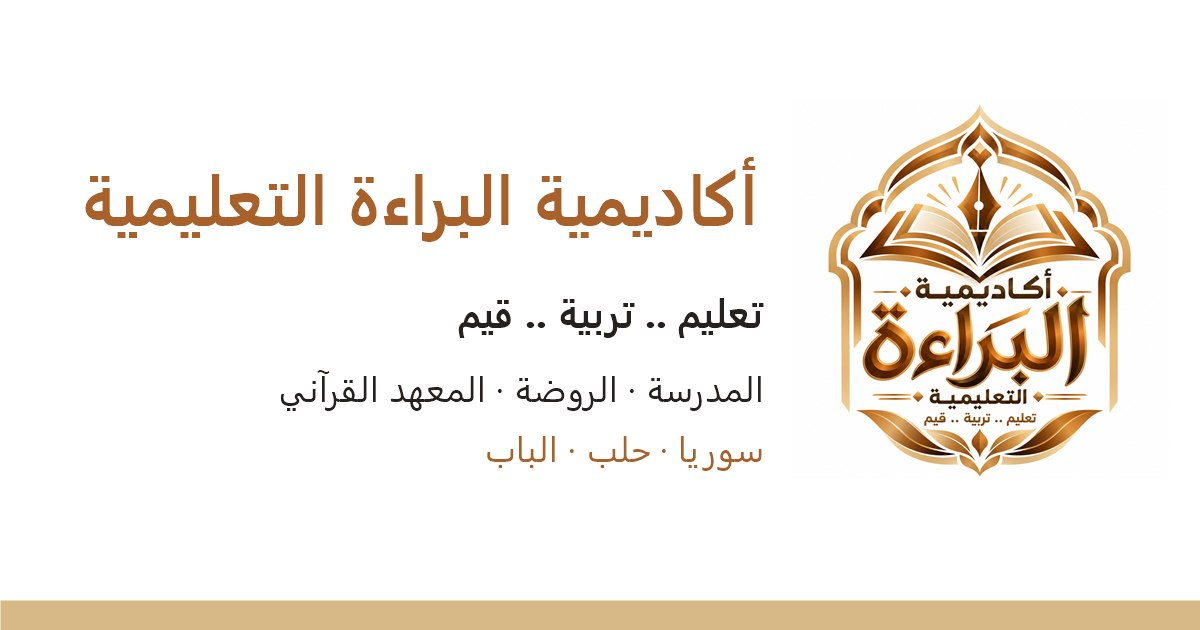
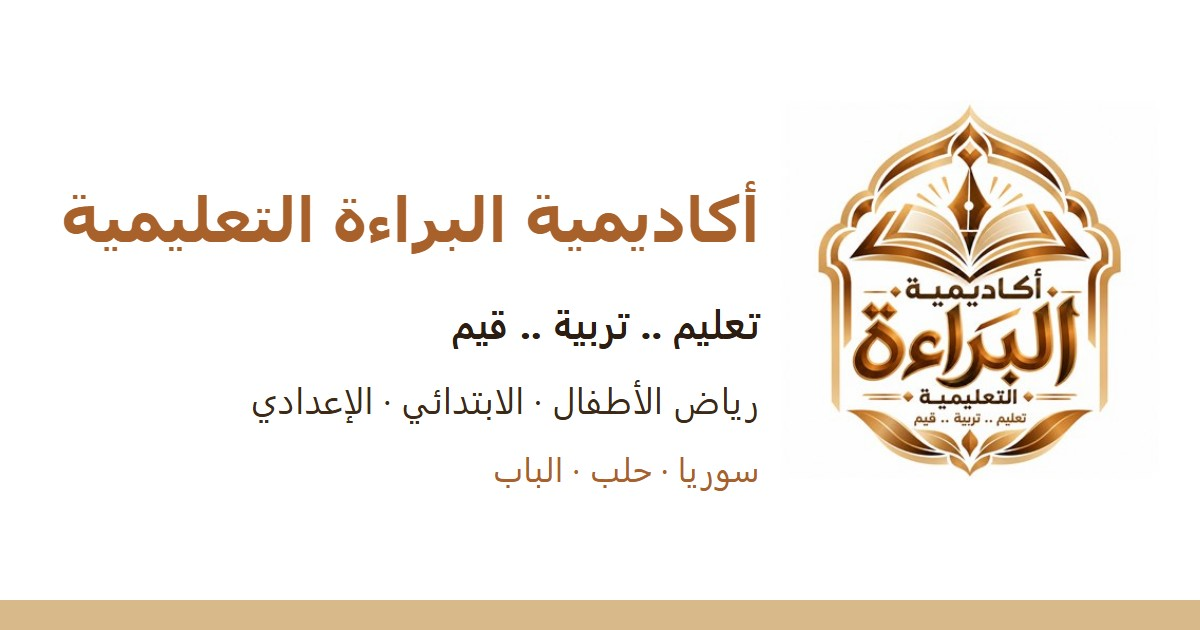
The site speaks for the Academy only: no sections block; kindergarten, primary and preparatory stages; one gallery; new share picture

diff --git a/index.html b/index.html
@@ -4,9 +4,9 @@
   <meta charset="utf-8">
   <meta name="viewport" content="width=device-width, initial-scale=1">
   <title>أكاديمية البراءة التعليمية | سوريا، حلب، الباب</title>
-  <meta name="description" content="أكاديمية البراءة التعليمية في سوريا، حلب، مدينة الباب: مدرسة البراءة الخاصة (ابتدائي) ودورات التقوية والتأسيس والشهادة الإعدادية، روضة البراءة الخاصة، ومعهد البراءة القرآني للعلوم الشرعية.">
+  <meta name="description" content="أكاديمية البراءة التعليمية في سوريا، حلب، مدينة الباب: رياض الأطفال، والمرحلة الابتدائية، والمرحلة الإعدادية.">
   <meta property="og:title" content="أكاديمية البراءة التعليمية">
-  <meta property="og:description" content="أكاديمية البراءة التعليمية في سوريا، حلب، مدينة الباب: مدرسة البراءة الخاصة، روضة البراءة الخاصة، ومعهد البراءة القرآني للعلوم الشرعية.">
+  <meta property="og:description" content="أكاديمية البراءة التعليمية في سوريا، حلب، مدينة الباب: تعليم .. تربية .. قيم.">
   <link rel="canonical" href="https://albaraah.org/">
   <meta property="og:type" content="website">
   <meta property="og:url" content="https://albaraah.org/">
@@ -22,7 +22,7 @@
   <link rel="preconnect" href="https://fonts.googleapis.com">
   <link rel="preconnect" href="https://fonts.gstatic.com" crossorigin>
   <link href="https://fonts.googleapis.com/css2?family=Amiri:wght@700&family=Cairo:wght@400;600;700;800;900&display=swap" rel="stylesheet">
-  <link rel="stylesheet" href="styles.css?v=2026-10-30-gallery">
+  <link rel="stylesheet" href="styles.css?v=2026-11-25-academy">
 </head>
 <body>
   <header class="site-header">
@@ -35,7 +35,7 @@
       <label for="menu-toggle" class="menu-button" aria-hidden="true"><span></span><span></span><span></span></label>
       <nav class="site-nav" aria-label="القائمة الرئيسية">
         <a href="#about">عن الأكاديمية</a>
-        <a href="#programs">أقسامنا</a>
+        <a href="#gallery">من يومياتنا</a>
         <a href="#register">التسجيل</a>
         <a href="#news">الأخبار</a>
         <a href="#contact">تواصل معنا</a>
@@ -48,9 +48,7 @@
     <section class="hero">
       <div class="wrap hero-inner">
         <div class="hero-logos">
-          <img src="assets/kindergarten.jpg" alt="روضة البراءة الخاصة" width="92" height="92">
-          <img src="assets/school.jpg" alt="مدرسة البراءة الخاصة" width="150" height="150" class="hero-logo-main">
-          <img src="assets/institute.jpg" alt="معهد البراءة القرآني" width="92" height="92">
+          <img src="assets/academy.jpg" alt="شعار أكاديمية البراءة التعليمية" width="150" height="150" class="hero-logo-main">
         </div>
         <h1>أكاديمية البراءة التعليمية</h1>
         <p class="hero-motto">تعليم .. تربية .. قيم</p>
@@ -73,7 +71,7 @@
         <div>
           <p class="eyebrow">من نحن</p>
           <h2>أكاديمية البراءة التعليمية</h2>
-          <p>أكاديمية تعليمية في مدينة الباب، تجمع تحت سقف واحد مدرسة البراءة الخاصة ودوراتها في التقوية والتأسيس والشهادة الإعدادية، وروضة البراءة الخاصة، ومعهد البراءة القرآني للعلوم الشرعية. نعمل على أن يجد كل طالب تعليماً متميّزاً ومتابعةً حقيقية، وبيئةً تربوية تبني العلم والخُلُق معاً.</p>
+          <p>أكاديمية تعليمية في مدينة الباب، تستقبل طلابها في <strong>رياض الأطفال</strong> و<strong>المرحلة الابتدائية</strong> و<strong>المرحلة الإعدادية</strong>. نعمل على أن يجد كل طالب تعليماً متميّزاً ومتابعةً حقيقية، في صفوف بأعداد محدودة، وتواصلٍ مستمر مع الأهل، وبيئةٍ تربوية تبني العلم والخُلُق معاً.</p>
         </div>
         <ul class="values">
           <li><strong>تعليم</strong><span>مناهج واضحة ومعلّمون يتابعون كل طالب.</span></li>
@@ -83,103 +81,25 @@
       </div>
     </section>
 
-    <section id="programs" class="section section-tint">
+    <section id="gallery" class="section section-tint">
       <div class="wrap">
-        <p class="eyebrow">أقسامنا</p>
-        <h2>ثلاثة أقسام تحت سقف واحد</h2>
-
-        <article class="unit unit-brown" id="school">
-          <header class="unit-head">
-            <img src="assets/school.jpg" alt="شعار مدرسة البراءة الخاصة" width="96" height="96">
-            <div>
-              <h3>مدرسة البراءة الخاصة</h3>
-              <p class="tag">المرحلة الابتدائية · من الصف الأول إلى الصف السادس</p>
-            </div>
-          </header>
-          <p>مدرسة ابتدائية خاصة في مدينة الباب، تقدّم تعليماً متميّزاً في صفوف بأعداد محدودة، مع متابعة يومية لكل طالب وتواصل مستمر مع الأهل، في بيئة تربوية تجمع بين العلم والأخلاق.</p>
-          <div class="cards">
-            <div class="card card-brown">
-              <span class="card-icon"><svg viewBox="0 0 24 24" aria-hidden="true"><path d="M4 4h16v2H4V4Zm0 4h10v2H4V8Zm0 4h16v2H4v-2Zm0 4h10v2H4v-2Z"/></svg></span>
-              <h4>التعليم الابتدائي</h4>
-              <ul><li>من الصف الأول إلى الصف السادس</li><li>صفوف بأعداد محدودة</li><li>متابعة لكل طالب وتقارير للأهل</li></ul>
-            </div>
-            <div class="card card-blue">
-              <span class="card-icon"><svg viewBox="0 0 24 24" aria-hidden="true"><path d="M3 5h7a2 2 0 0 1 2 2v12a2 2 0 0 0-2-2H3V5Zm18 0h-7a2 2 0 0 0-2 2v12a2 2 0 0 1 2-2h7V5ZM5 8h4v1.5H5V8Zm0 3h4v1.5H5V11Zm10-3h4v1.5h-4V8Zm0 3h4v1.5h-4V11Z"/></svg></span>
-              <h4>دورات التقوية والتأسيس</h4>
-              <ul><li>متابعة يومية لجميع المواد</li><li>شرح مبسّط وحلّ الواجبات</li><li>تأسيس في القراءة والكتابة والحساب</li><li>اهتمام فردي بكل طالب</li></ul>
-            </div>
-            <div class="card card-brown">
-              <span class="card-icon"><svg viewBox="0 0 24 24" aria-hidden="true"><path d="M12 3 1 8.5 12 14l9-4.5V16h2V8.5L12 3Zm-6 9.6V16c0 1.7 2.7 3 6 3s6-1.3 6-3v-3.4L12 15.6 6 12.6Z"/></svg></span>
-              <h4>دورات الشهادة الإعدادية</h4>
-              <ul><li>للصف التاسع</li><li>تحضير شامل لامتحانات الشهادة</li><li>مراجعات مكثّفة ونماذج امتحانية</li></ul>
-              <img class="card-photo" src="assets/grade9-course.jpg" alt="حصة من دورات الشهادة الإعدادية في مدرسة البراءة الخاصة" width="960" height="721" loading="lazy">
-            </div>
+        <p class="eyebrow">من يومياتنا</p>
+        <h2>من يوميات الأكاديمية</h2>
+        <div class="gallery" data-gallery>
+          <div class="gallery-stage">
+            <img class="gallery-main" src="assets/school-1.jpg" alt="طالبات يحتفلن بإنجاز ورقة عمل في الرياضيات" width="674" height="900" loading="lazy">
+            <button type="button" class="gallery-arrow gallery-prev" aria-label="الصورة السابقة">›</button>
+            <button type="button" class="gallery-arrow gallery-next" aria-label="الصورة التالية">‹</button>
           </div>
-          <h4 class="gallery-title">من يوميات المدرسة</h4>
-          <div class="gallery" data-gallery>
-            <div class="gallery-stage">
-              <img class="gallery-main" src="assets/school-1.jpg" alt="طالبات يحتفلن بإنجاز ورقة عمل في الرياضيات" width="674" height="900" loading="lazy">
-              <button type="button" class="gallery-arrow gallery-prev" aria-label="الصورة السابقة">›</button>
-              <button type="button" class="gallery-arrow gallery-next" aria-label="الصورة التالية">‹</button>
-            </div>
-            <div class="gallery-thumbs">
-              <button type="button" class="is-active"><img src="assets/school-1.jpg" alt="طالبات يحتفلن بإنجاز ورقة عمل في الرياضيات" loading="lazy"></button>
-              <button type="button"><img src="assets/school-2.jpg" alt="طلاب الصف في نشاط مشترك داخل القاعة" loading="lazy"></button>
-              <button type="button"><img src="assets/school-3.jpg" alt="طالبات في ساحة المدرسة" loading="lazy"></button>
-              <button type="button"><img src="assets/school-4.jpg" alt="طلاب يعرضون دفاترهم أمام لوحة المدرسة" loading="lazy"></button>
-              <button type="button"><img src="assets/school-5.jpg" alt="طالبات مكرّمات بملصقات التشجيع في حصة التربية الدينية" loading="lazy"></button>
-              <button type="button"><img src="assets/school-6.jpg" alt="طلاب يحصلون على أوسمة التميّز على دفاترهم" loading="lazy"></button>
-            </div>
+          <div class="gallery-thumbs">
+            <button type="button" class="is-active"><img src="assets/school-1.jpg" alt="طالبات يحتفلن بإنجاز ورقة عمل في الرياضيات" loading="lazy"></button>
+            <button type="button"><img src="assets/school-2.jpg" alt="طلاب الصف في نشاط مشترك داخل القاعة" loading="lazy"></button>
+            <button type="button"><img src="assets/school-3.jpg" alt="طالبات في ساحة المدرسة" loading="lazy"></button>
+            <button type="button"><img src="assets/school-4.jpg" alt="طلاب يعرضون دفاترهم أمام لوحة المدرسة" loading="lazy"></button>
+            <button type="button"><img src="assets/school-5.jpg" alt="طالبات مكرّمات بملصقات التشجيع في حصة التربية الدينية" loading="lazy"></button>
+            <button type="button"><img src="assets/school-6.jpg" alt="طلاب يحصلون على أوسمة التميّز على دفاترهم" loading="lazy"></button>
           </div>
-        </article>
-
-        <article class="unit unit-gold" id="kindergarten">
-          <header class="unit-head">
-            <img src="assets/kindergarten.jpg" alt="شعار روضة البراءة الخاصة" width="96" height="96">
-            <div>
-              <h3>روضة البراءة الخاصة</h3>
-              <p class="tag">للأطفال من عمر 3 إلى 6 سنوات</p>
-            </div>
-          </header>
-          <p>روضة تستقبل الأطفال من عمر ثلاث سنوات إلى ست سنوات، وتجهزهم للمدرسة بالتعلّم واللعب: الحروف والأرقام، والأناشيد، والسور القصيرة، والأنشطة الفنية، في بيئة آمنة ودافئة مع مربّيات يتابعن كل طفل.</p>
-          <ul class="points">
-            <li>تحضير للصف الأول: الحروف والأرقام</li>
-            <li>حفظ السور القصيرة والأدعية</li>
-            <li>أنشطة فنية وألعاب تعليمية</li>
-            <li>بيئة آمنة ومتابعة لكل طفل</li>
-          </ul>
-          <h4 class="gallery-title">من يوميات الروضة</h4>
-          <div class="gallery" data-gallery>
-            <div class="gallery-stage">
-              <img class="gallery-main" src="assets/kg-1.jpg" alt="أطفال الروضة يتدرّبون على كتابة حرف الذال على اللوح" width="785" height="900" loading="lazy">
-              <button type="button" class="gallery-arrow gallery-prev" aria-label="الصورة السابقة">›</button>
-              <button type="button" class="gallery-arrow gallery-next" aria-label="الصورة التالية">‹</button>
-            </div>
-            <div class="gallery-thumbs">
-              <button type="button" class="is-active"><img src="assets/kg-1.jpg" alt="أطفال الروضة يتدرّبون على كتابة حرف الذال على اللوح" loading="lazy"></button>
-              <button type="button"><img src="assets/kg-2.jpg" alt="نشاط فني: تلوين حبّات الذرة مع حرف الذال" loading="lazy"></button>
-              <button type="button"><img src="assets/kg-3.jpg" alt="أطفال الروضة يكتبون أشكال حرف الذال في دفاترهم" loading="lazy"></button>
-              <button type="button"><img src="assets/kg-4.jpg" alt="أطفال الروضة أمام لوح درس العدد تسعة" loading="lazy"></button>
-            </div>
-          </div>
-        </article>
-
-        <article class="unit unit-green" id="institute">
-          <header class="unit-head">
-            <img src="assets/institute.jpg" alt="شعار معهد البراءة القرآني" width="96" height="96">
-            <div>
-              <h3>معهد البراءة القرآني للعلوم الشرعية</h3>
-              <p class="tag">ذكور وإناث · لجميع الأعمار</p>
-            </div>
-          </header>
-          <p>معهد لتحفيظ القرآن الكريم وتعليم العلوم الشرعية، بفوجين صباحي ومسائي، يستقبل الذكور والإناث من جميع الأعمار، في حلقات منتظمة بإشراف معلّمين ومعلّمات مختصّين.</p>
-          <ul class="points">
-            <li>حفظ ومراجعة القرآن الكريم</li>
-            <li>تلاوة وأحكام التجويد</li>
-            <li>حلقات منتظمة ومتابعة مستمرة</li>
-            <li>فوج صباحي وفوج مسائي</li>
-          </ul>
-        </article>
+        </div>
       </div>
     </section>
 
@@ -189,7 +109,7 @@
         <h2>ثلاث خطوات للتسجيل</h2>
         <ol class="steps">
           <li><strong>تواصل معنا</strong><span>اتصل أو راسلنا على واتساب لتعرف تفاصيل التسجيل والمواعيد.</span></li>
-          <li><strong>زُرنا</strong><span>تعال إلى الأكاديمية في مدينة الباب لتتعرّف على القسم والكادر.</span></li>
+          <li><strong>زُرنا</strong><span>تعال إلى الأكاديمية في مدينة الباب لتتعرّف على صفوفها وكادرها.</span></li>
           <li><strong>ثبّت التسجيل</strong><span>أحضر الأوراق المطلوبة لتثبيت تسجيل الطالب.</span></li>
         </ol>
         <div class="center"><a class="btn btn-gold" href="https://wa.me/963962899395" target="_blank" rel="noopener">ابدأ التسجيل عبر واتساب</a></div>
